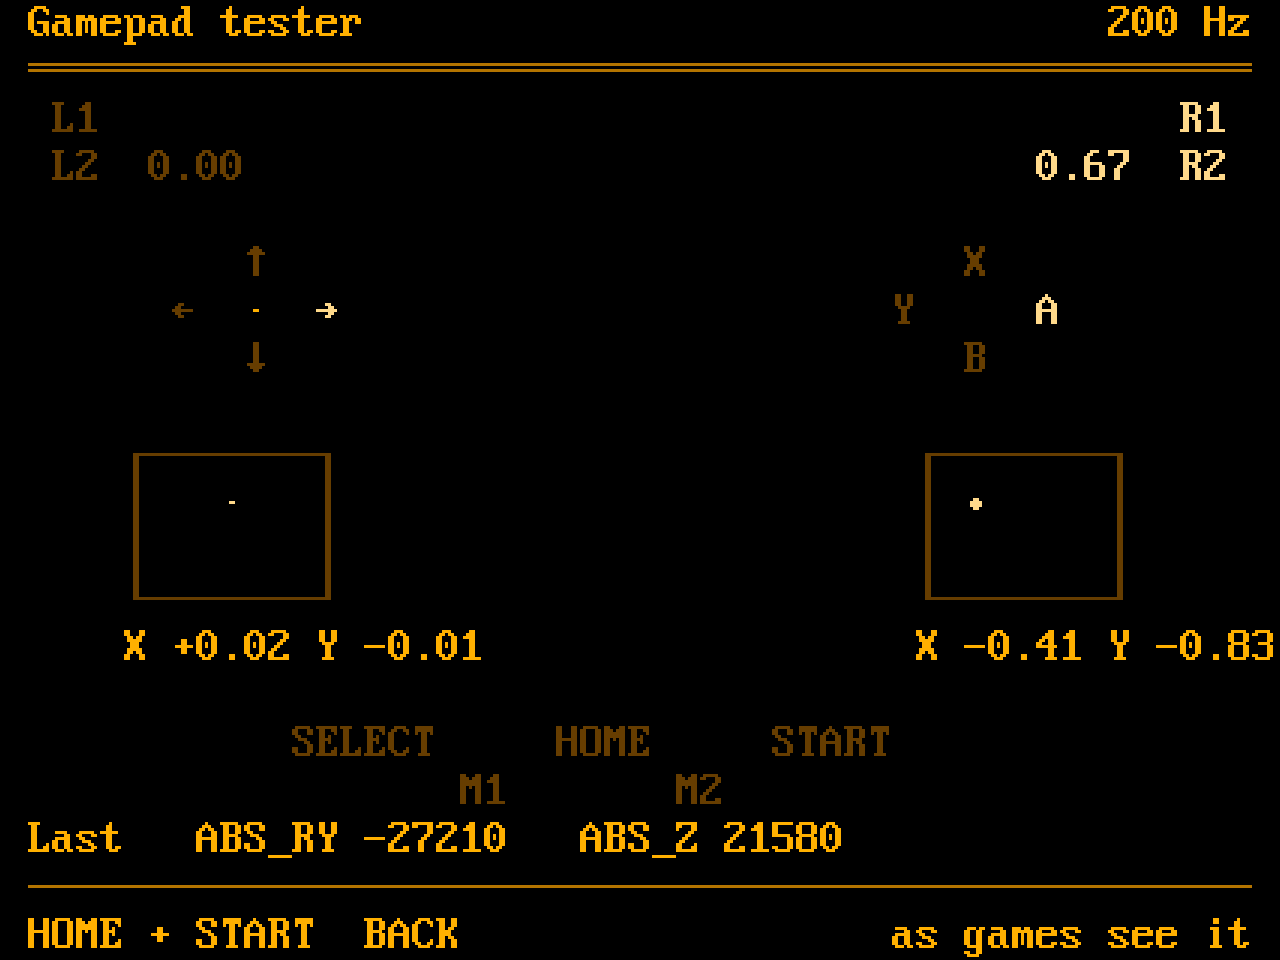
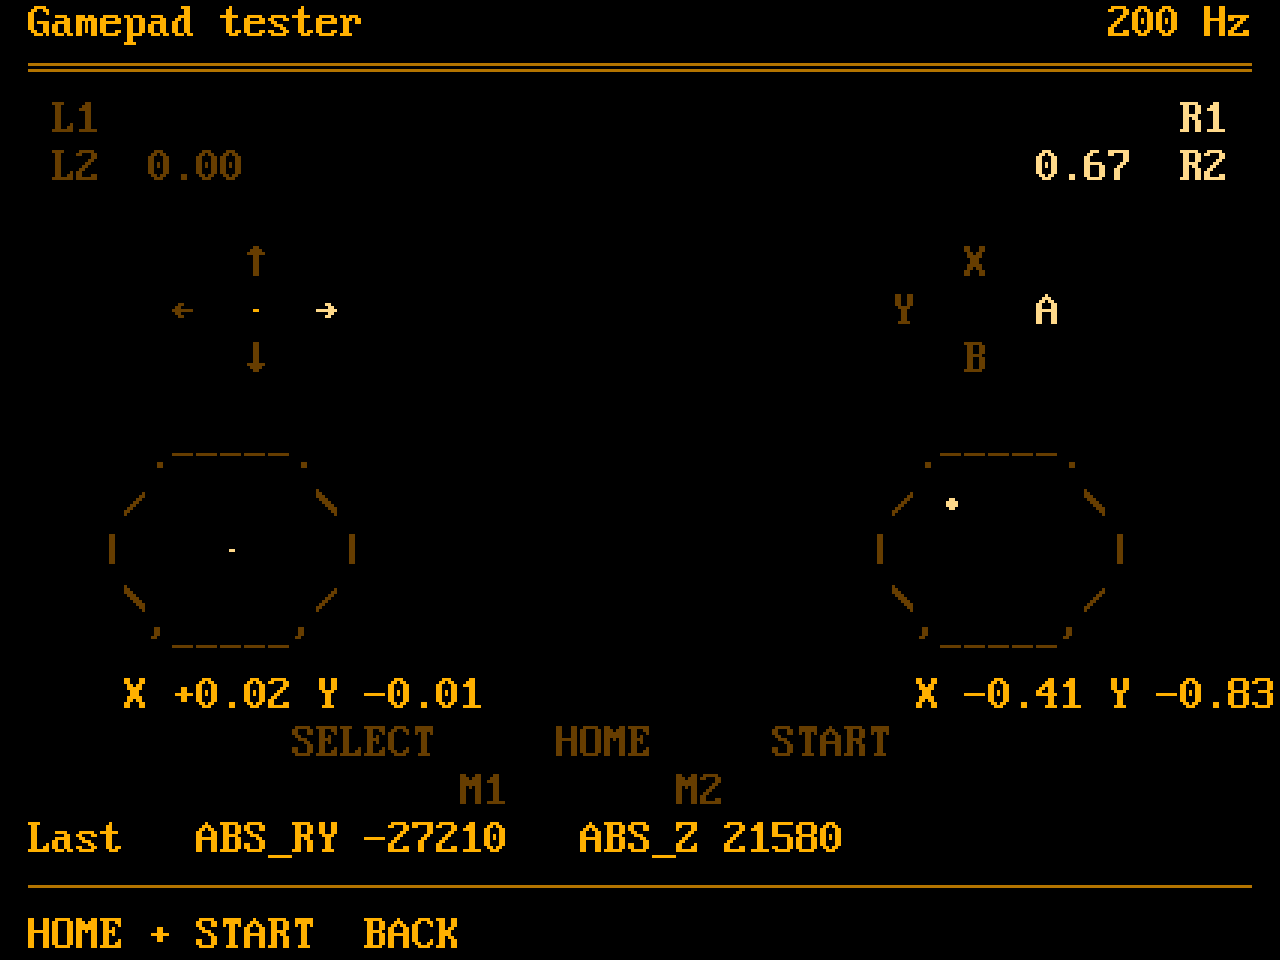
mockup: round sticks, nothing in the footer's right
A stick is round, so its travel is a ring out of the font's slashes and
bars, with the dot for the position; the highlights follow the dot
from the lines themselves. The footer's layer label goes: what games
see is the normal thing to look at, and the raw mode names itself in
the header.

diff --git a/tools/mockup.py b/tools/mockup.py
@@ -329,7 +329,7 @@ favourites += [THIN, games_footer(True, 3, 7)]
 # which, in three words, so nobody wonders what they are looking at.
 def pad_screen(ps=False, raw=False):
     top, left, right, bottom = ("\u25b2", "\u25a0", "\u25cb", "\u00d7") if ps else ("X", "Y", "A", "B")
-    L = [row(" Gamepad tester", "200 Hz "), RULE]
+    L = [row(" Gamepad tester" + (", raw" if raw else ""), "200 Hz "), RULE]
     L.append(row("  L1", "R1  "))
     L.append(row("  L2  0.00", "0.67  R2  "))
     L.append("")
@@ -337,27 +337,29 @@ def pad_screen(ps=False, raw=False):
     L.append(" " * 7 + "\u2190  \u00b7  \u2192" + " " * 23 + left + "     " + right)
     L.append(" " * 10 + "\u2193" + " " * 29 + bottom)
     L.append("")
-    box = ["\u250c\u2500\u2500\u2500\u2500\u2500\u2500\u2500\u2510",
-           "\u2502       \u2502", "\u2502       \u2502", "\u2514\u2500\u2500\u2500\u2500\u2500\u2500\u2500\u2518"]
-    lstick = [box[0], "\u2502   \u00b7   \u2502", box[2], box[3]]
-    rstick = [box[0], "\u2502 \u2022     \u2502", box[2], box[3]]
-    for i in range(4):
-        L.append(" " * 5 + lstick[i] + " " * 24 + rstick[i])
+    # A stick is round, so its travel is drawn as a ring, out of the
+    # slashes and bars the font has; the dot is the position.
+    ring = ["   .-----.   ", "  /       \\  ", " |         | ", "  \\       /  ", "   '-----'   "]
+    lstick = list(ring); lstick[2] = " |    \u00b7    | "
+    rstick = list(ring); rstick[1] = "  / \u2022     \\  "
+    for i in range(5):
+        L.append(" " * 3 + lstick[i] + " " * 19 + rstick[i])
     L.append(" " * 5 + "X +0.02 Y -0.01" + " " * 18 + "X -0.41 Y -0.83")
-    L.append("")
     L.append(" " * 12 + "SELECT     HOME     START")
     L.append(" " * 19 + "M1       M2")
     L.append(row(" Last   ABS_RY -27210   ABS_Z 21580", ""))
     L.append(THIN)
-    L.append(row(" HOME + START  BACK", ("MCU, raw " if raw else "as games see it ")))
+    L.append(row(" HOME + START  BACK", ""))
     return L
 
 gamepad = pad_screen()
 gamepad_ps = pad_screen(ps=True)
 
 # Which cells are bright (held) and which dim (idle); the rest is text.
-# Rows and columns of pad_screen above; one list serves both variants.
+# Rows and columns of pad_screen above. The rings and their dots are
+# found in the lines themselves, so moving a dot moves its highlight.
 def pad_spans(ps=False):
+    lines = pad_screen(ps)
     bright, dim = [], []
     dim += [(2, 2, 4)]                      # L1
     bright += [(2, 49, 51)]                 # R1
@@ -367,8 +369,11 @@ def pad_spans(ps=False):
     bright += [(6, 13, 14)]                 # right
     dim += [(5, 40, 41), (6, 37, 38), (7, 40, 41)]   # top, left, bottom face
     bright += [(6, 43, 44)]                 # A, or the circle
-    dim += [(r, 5, 14) for r in range(9, 13)] + [(r, 38, 47) for r in range(9, 13)]
-    bright += [(10, 9, 10), (10, 40, 41)]   # the two dots
+    for r in range(9, 14):
+        dim += [(r, 3, 15), (r, 35, 47)]
+        for c, ch in enumerate(lines[r]):
+            if ch in "\u00b7\u2022":
+                bright.append((r, c, c))
     dim += [(15, 12, 18), (15, 23, 27), (15, 32, 37), (16, 19, 21), (16, 28, 30)]
     return bright, dim
 

diff --git a/docs/gamepad-tester.md b/docs/gamepad-tester.md
@@ -17,7 +17,7 @@ like the other mockups, so the layout cannot drift from what it claims.
 
 A menu never needs a diagram; this does. The pad is drawn where its
 controls sit, in the font's own glyphs: arrows for the D-pad, the letters
-or marks for the face buttons, a box for each stick's travel with a dot
+or marks for the face buttons, a ring for each stick's travel with a dot
 for its position, plain words for the rest. Nothing decorative: no
 enclosure, no bevel, no second palette. A control is drawn with the
 launcher's bright attribute while it is held and the dim one while it is
@@ -37,10 +37,10 @@ of CP437 (`G_CIRCLE`, `G_TRIANGLE`, `G_SQUARE`, a plain `X`).
   (`ABS_Z`, `ABS_RZ`).
 - The **D-pad** arrows, the pressed one bright.
 - **A B X Y** in the Nova's diamond, A on the right, B at the bottom.
-- Each **stick** as a 9x4 box with a dot that moves with the position, and
-  the normalised `X` and `Y` beneath. The box gives the direction at a
-  glance; the numbers carry the precision, since a cell is coarse. The box
-  goes bright while the stick is clicked (`L3`, `R3`).
+- Each **stick** as a ring, since a stick is round, with a dot that moves
+  with the position and the normalised `X` and `Y` beneath. The ring gives
+  the direction at a glance; the numbers carry the precision, since a cell
+  is coarse. The ring goes bright while the stick is clicked (`L3`, `R3`).
 - **SELECT, HOME, START** and the paddles **M1, M2**.
 - **Last**: the last two events as the kernel names them, code and value.
 - In the header, the pad's report rate, which is what a tester of this
@@ -52,8 +52,9 @@ There are two devices to look at: the MCU's own evdev device, and the
 virtual pad InputPlumber presents, which is what games get. Lighting a
 control when either reports it would leave the reader unsure which layer
 is under test, so the tester shows one: the virtual pad by default, the
-MCU's device when started with `--raw`. The footer says which, in a few
-words: `as games see it`, or `MCU, raw`. Tools can list both entries.
+MCU's device when started with `--raw`, which the header then says with
+", raw" after the name. Nothing is said in the default case; what games
+see is the normal thing to look at. Tools can list both entries.
 
 ## What it does not do
 
